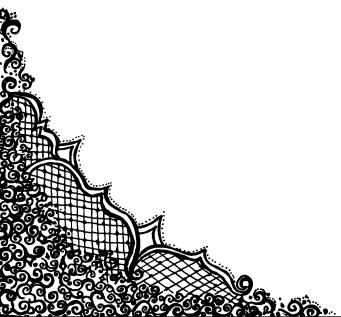
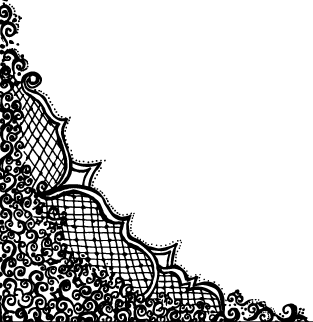
Make wishlist component responsive.

Changed region(s): [[0.0, 0.0, 1.0, 1.0]]

diff --git a/src/app/shop/wishlist/wishlist-item/wishlist-item.component.scss b/src/app/shop/wishlist/wishlist-item/wishlist-item.component.scss
@@ -54,43 +54,116 @@
             margin-left: 5px;
           }
         }
-        .additional-block {
+        .actions-block {
           display: flex;
-          align-items: center;
-          cursor: pointer;
-          opacity: 0;
-          transition: opacity 0.5s ease;
-          position: relative;
-          .icon {
-            width: 20px;
-            height: 20px;
+          flex-direction: column;
+          height: 100%;
+          align-items: flex-end;
+          justify-content: space-between;
+          margin-top:25px;
+          .additional-block {
+            display: flex;
+            align-items: center;
+            cursor: pointer;
+            opacity: 0;
+            transition: opacity 0.5s ease;
+            position: relative;
+            .icon {
+              width: 20px;
+              height: 20px;
+            }
+            .text {
+              font-size: 14px;
+              line-height: 14px;
+              margin-left: 3px;
+              margin-top: 4px;
+            }
           }
-          .text {
-            font-size: 14px;
-            line-height: 14px;
-            margin-left: 3px;
-            margin-top: 4px;
+          .ng-select.custom {
+            width: 140px;
+          }
+          .ng-select.custom .ng-select-container  {
+            width: 140px;
+          }
+          /deep/ .ng-select .ng-select-container {
+            height: 33px;
+            min-height:27px;
+          }
+          .delete-block {
+            margin-left: 15px;
+            .delete-text {
+              color: #e23f50;
+            }
+          }
+          .active {
+            opacity: 1;
+            transition: opacity 0.7s ease-out;
           }
         }
-        .ng-select.custom {
-          width: 140px;
-        }
-        .ng-select.custom .ng-select-container  {
-          width: 140px;
-        }
-        /deep/ .ng-select .ng-select-container {
-          height: 33px;
-          min-height:27px;
-        }
-        .delete-block {
-          margin-left: 15px;
-          .delete-text {
-            color: #e23f50;
+      }
+    }
+  }
+}
+
+@media screen and (max-width: 768px) {
+  .wishlist-item-container {
+    .content-box {
+      .block {
+        &:nth-child(2) {
+          .actions-block {
+            .additional-block {
+              opacity: 1;
+            }
           }
         }
-        .active {
-          opacity: 1;
-          transition: opacity 0.7s ease-out;
+      }
+    }
+  }
+}
+
+@media screen and (max-width: 576px) {
+  .wishlist-item-container {
+    .content-box {
+      .block {
+        &:nth-child(2) {
+          .actions-block {
+           .additional-block {
+            .text {
+              display: none;
+            }
+          }
+          }
+        }
+      }
+    }
+  }
+}
+
+@media screen and (max-width: 450px) {
+  .wishlist-item-container {
+    .content-box {
+      flex-direction: column;
+      justify-content: flex-start;
+      .block {
+        &:nth-child(1) {
+          width: 100%;
+        }
+        &:nth-child(2) {
+          margin-left: 20px;
+          height: 100%;
+          width: 100%;
+          align-items: flex-start;
+          justify-content: space-between;
+          .price-wrapper {
+            margin-top: 5px;
+          }
+          .actions-block {
+            flex-direction: row;
+            margin-top: 10px;
+            .details-block {
+              margin-right: 15px;
+            }
+          }
         }
       }
     }

diff --git a/src/app/shop/wishlist/wishlist-item/wishlist-item.component.html b/src/app/shop/wishlist/wishlist-item/wishlist-item.component.html
@@ -13,22 +13,24 @@
         <div class="price" [ngStyle]="{textDecoration : wishlistItem.discount ? 'line-through' : 'none', color : wishlistItem.discount ? 'grey' : 'black'}">${{wishlistItem.price}}</div>
         <div class="discount" *ngIf="wishlistItem.discount">${{wishlistItem.discount}}</div>
       </div>
-      <div class="additional-block details-block" #detailsBlock (click)="openProductDetails()">
-        <img src="/assets/shop/eye.svg" alt="" class="icon">
-        <div class="text add-text">Watch Details</div>
-      </div>
-      <div class="additional-block" #addBlock (click)="addProductToCart()">
-        <ng-container *ngIf="!addToCartWasClicked">
-          <img src="/assets/shop/bag.svg" alt="" class="icon">
-          <div class="text">Add to Cart</div>
-        </ng-container>
-        <ng-select *ngIf="addToCartWasClicked" [items]="sizes"
-                   [(ngModel)]="selectedSize" placeholder="Choose a size" class="custom">
-        </ng-select>
-      </div>
-      <div class="additional-block delete-block" #deleteBlock (click)="deleteProductFromWishlist()">
-        <img src="/assets/waste-bin.svg" alt="" class="icon">
-        <div class="text delete-text">Delete</div>
+      <div class="actions-block">
+        <div class="additional-block details-block" #detailsBlock (click)="openProductDetails()">
+          <img src="/assets/shop/eye.svg" alt="" class="icon">
+          <div class="text add-text">Watch Details</div>
+        </div>
+        <div class="additional-block" #addBlock (click)="addProductToCart()">
+          <ng-container *ngIf="!addToCartWasClicked">
+            <img src="/assets/shop/bag.svg" alt="" class="icon">
+            <div class="text">Add to Cart</div>
+          </ng-container>
+          <ng-select *ngIf="addToCartWasClicked" [items]="sizes"
+                     [(ngModel)]="selectedSize" placeholder="Choose a size" class="custom">
+          </ng-select>
+        </div>
+        <div class="additional-block delete-block" #deleteBlock (click)="deleteProductFromWishlist()">
+          <img src="/assets/waste-bin.svg" alt="" class="icon">
+          <div class="text delete-text">Delete</div>
+        </div>
       </div>
     </div>
   </div>

diff --git a/src/app/UI/corners/corners.component.scss b/src/app/UI/corners/corners.component.scss
@@ -9,14 +9,14 @@
 }
 .bottom-left-corner {
   background-image: url('/assets/land-bor-b-l.png');
-  bottom: -4px;
+  bottom: 0;
   left: 0;
 }
 .bottom-right-corner {
   background-image: url('/assets/land-bor-b-r.png');
   width: 188px;
   height: 183px;
-  bottom: -1px;
+  bottom: -7px;
   right: 0;
 }
 .top-left-corner {
@@ -28,4 +28,14 @@
   background-image: url('/assets/land-bor-t-r.png');
   top: 0;
   right: 0;
+}
+
+@media screen and (max-width: 768px) {
+  .corner {
+    width:110px;
+    height:105px;
+  }
+  .bottom-right-corner {
+    right: -2px;
+  }
 }

diff --git a/src/app/UI/loader/loader.component.ts b/src/app/UI/loader/loader.component.ts
@@ -1,8 +1,8 @@
 import { Component, OnInit, OnDestroy, AfterViewInit } from '@angular/core';
 import { Subscription } from 'rxjs';
 
-import { LoaderService } from '../loader.service';
-import { LoaderState } from '../loader';
+import { LoaderService } from './loader.service';
+import { LoaderState } from './loader';
 
 @Component({
   selector: 'app-loader',
@@ -11,7 +11,7 @@ import { LoaderState } from '../loader';
 })
 export class LoaderComponent implements OnInit, OnDestroy, AfterViewInit {
 
-  show;
+  show = false;
 
   private subscription: Subscription;
 

diff --git a/src/app/app.module.ts b/src/app/app.module.ts
@@ -9,7 +9,7 @@ import { reducers } from './shop/store/reducers/reducer.factory';
 import { AppRoutingModule } from './app-routing.module';
 import { EffectsModule } from "@ngrx/effects";
 import { BrowserAnimationsModule } from '@angular/platform-browser/animations';
-import { LoaderInterceptorService } from './UI/loader-interceptor.service';
+import { LoaderInterceptorService } from './UI/loader/loader-interceptor.service';
 
 import { CartEffects } from "./shop/store/effects/cart.effects";
 import { ErrorsEffects } from "./shop/store/effects/errors.effects";

diff --git a/src/app/shop/wishlist/wishlist.component.scss b/src/app/shop/wishlist/wishlist.component.scss
@@ -50,3 +50,27 @@
   left: 50%;
 }
 
+@media screen and (max-width:991px){
+  .wishlist-container {
+    width: 90%;
+  }
+}
+
+@media screen and (max-width: 576px) {
+  .wishlist-container {
+    padding: 30px 0 30px;
+  }
+}
+
+@media screen and (max-width: 450px) {
+  .wishlist-container {
+    .wishlist-header {
+      .amount {
+        width: 100%;
+      }
+      .price {
+        display: none;
+      }
+    }
+  }
+}

diff --git a/src/app/directives/hover.directive.ts b/src/app/directives/hover.directive.ts
@@ -15,7 +15,9 @@ export class HoverDirective  {
 
   @HostListener('mouseleave') onMouseleave() {
     for(let i = 0; i < this.el.length; i++) {
-      this.renderer.removeClass(this.el[i], this.activeClass);
+      if(window.innerWidth > 768) {
+        this.renderer.removeClass(this.el[i], this.activeClass);
+      }
     }
   }
 

diff --git a/src/app/profile/profile.component.scss b/src/app/profile/profile.component.scss
@@ -73,6 +73,7 @@
   .profile-wrapper {
     flex-direction: column;
     justify-content: center;
+    margin: 40px 0 30px;
     .image-wrapper {
       flex:1;
       margin: 0 auto;

diff --git a/src/app/users/users-list/users-list.components.scss b/src/app/users/users-list/users-list.components.scss
@@ -75,5 +75,10 @@
   }
 }
 
+@media screen and (max-width: 576px) {
+  .table-wrapper {
+    margin-top: 40px;
+  }
+}
 
 
